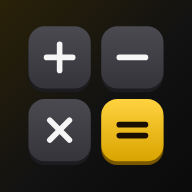
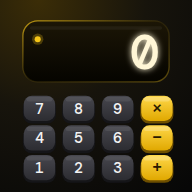
Ícone novo estilo calculadora (visor + teclas), nova geração
Claude-Session: https://claude.ai/code/session_01TtCMFNdHbqsW8sSWWRezXG

diff --git a/index.html b/index.html
@@ -10,9 +10,9 @@
 <script>try{var _b=(localStorage.getItem('cbg')||'').split('|');if(_b[0]){document.documentElement.style.background=_b[0];if(_b[1]==='1'){document.documentElement.className='light';document.querySelector('meta[name="apple-mobile-web-app-status-bar-style"]').setAttribute('content','default');}}}catch(e){}</script>
 <meta name="apple-mobile-web-app-title" content="Calculadora"/>
 <meta name="theme-color" content="#0e0e0e"/>
-<link rel="apple-touch-icon" href="icons/apple-touch-icon.png"/>
-<link rel="icon" type="image/svg+xml" href="icons/favicon.svg"/>
-<link rel="icon" type="image/png" sizes="32x32" href="icons/favicon-32.png"/>
+<link rel="apple-touch-icon" href="icons/apple-touch-icon.png?v=2"/>
+<link rel="icon" type="image/svg+xml" href="icons/favicon.svg?v=2"/>
+<link rel="icon" type="image/png" sizes="32x32" href="icons/favicon-32.png?v=2"/>
 <link rel="manifest" href="manifest.webmanifest"/>
 <style>
 @font-face{font-family:'Syne';font-style:normal;font-weight:400;font-display:swap;src:url(fonts/syne-latin-400-normal.woff2) format('woff2');}

diff --git a/sw.js b/sw.js
@@ -1,5 +1,5 @@
 // Offline: guarda o app no aparelho e atualiza em segundo plano (vale na próxima abertura).
-const CACHE = 'calc-v2';
+const CACHE = 'calc-v3';
 const SHELL = ['./', './index.html', './manifest.webmanifest', './icons/favicon.svg', './icons/favicon-32.png', './icons/apple-touch-icon.png', './icons/icon-192.png', './icons/icon-512.png',
   './fonts/syne-latin-400-normal.woff2', './fonts/syne-latin-600-normal.woff2', './fonts/syne-latin-700-normal.woff2', './fonts/syne-latin-800-normal.woff2',
   './fonts/dm-mono-latin-300-normal.woff2', './fonts/dm-mono-latin-400-normal.woff2', './fonts/dm-mono-latin-500-normal.woff2'];
